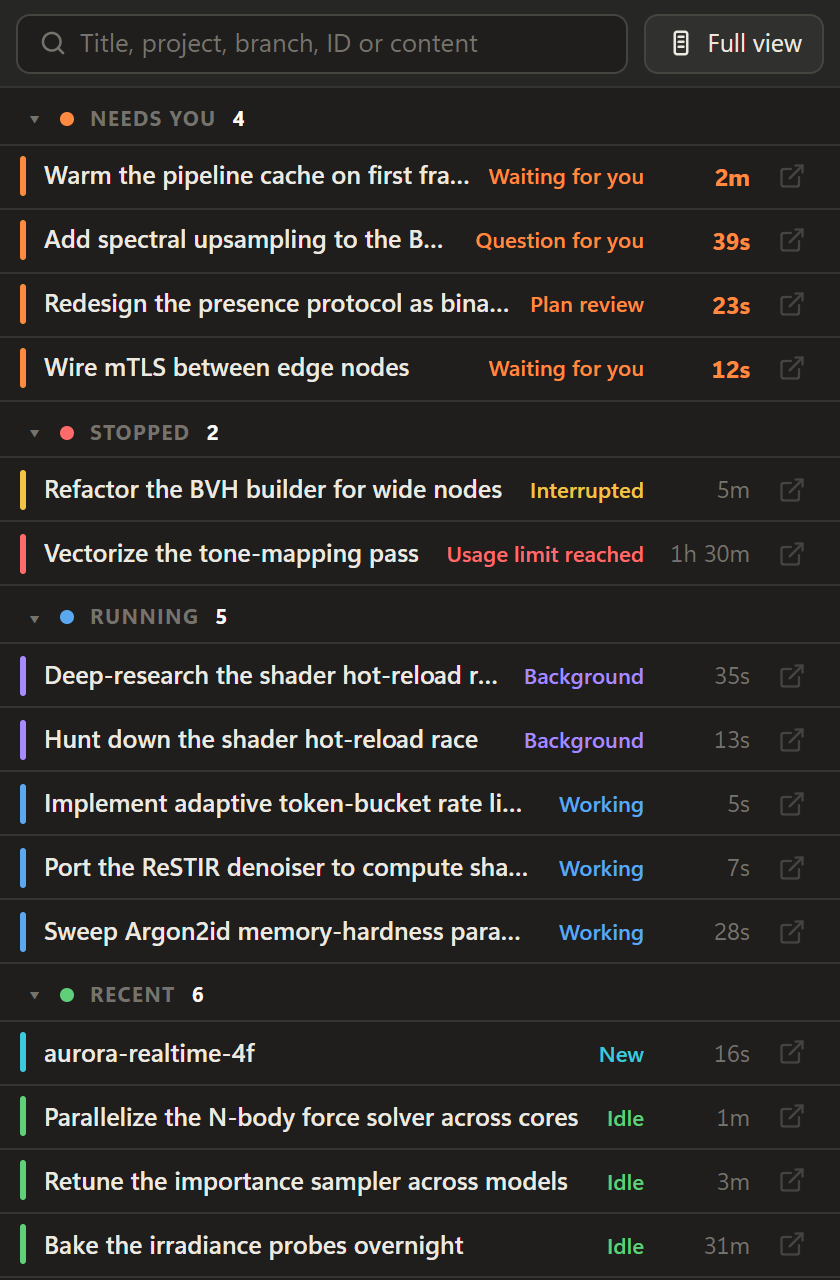
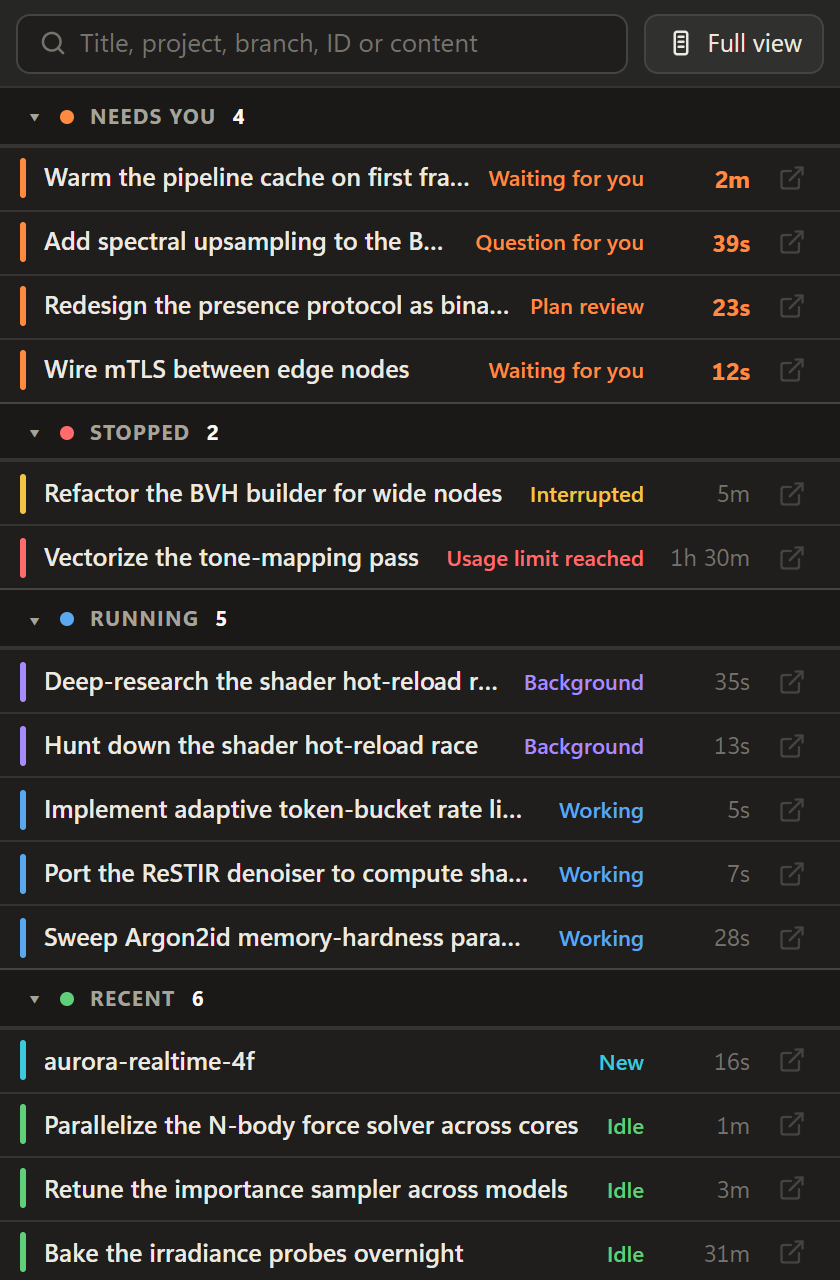
fix: space a list entry's rows by margin so a hidden row leaves no gap
The row gap stayed for every named grid track, so each entry carried 3px
under its last line for the empty hits row, and up to 9px when it showed
no activity or meta line. Screenshots regenerated.

diff --git a/agent_monitor_for_claude/ui/index.css b/agent_monitor_for_claude/ui/index.css
@@ -752,8 +752,17 @@ body.splitter-dragging {
         "line line"
         "meta meta"
         "hits hits";
-    gap: 3px 10px;
+    /* The rows below the first space themselves with a margin, which an empty,
+       hidden row takes with it - a row gap would stay for every named track. */
+    gap: 0 10px;
     padding: 9px 14px 10px;
+
+    .item-title,
+    .item-line,
+    .item-meta,
+    .row-hits {
+        margin-top: 3px;
+    }
     border-top: 1px solid var(--border);
     cursor: default;
 
@@ -866,6 +875,10 @@ body.splitter-dragging {
             "meta meta"
             "hits hits";
         padding: 7px 14px 8px;
+
+        .item-title {
+            margin-top: 0;
+        }
 
         .item-head,
         .item-line {
@@ -3492,6 +3505,10 @@ body.compact {
 
         .item-head {
             display: contents;
+        }
+
+        .item-title {
+            margin-top: 0;
         }
 
         .item-why,

diff --git a/CHANGELOG.md b/CHANGELOG.md
@@ -104,6 +104,7 @@ and this project adheres to [Semantic Versioning](https://semver.org/spec/v2.0.0
 - A session whose transcript had "50+" search hits no longer keeps matching after the transcript was rewritten without them.
 - Selecting another session or subagent while the previous one's activity is still loading shows the new one's activity at once, instead of only after the old answer arrived.
 - A collapsed project group no longer draws a second line between its name and its path.
+- List entries no longer carry extra space at the bottom for lines they do not show.
 
 ## [1.0.0] - 2026-11-07
 
